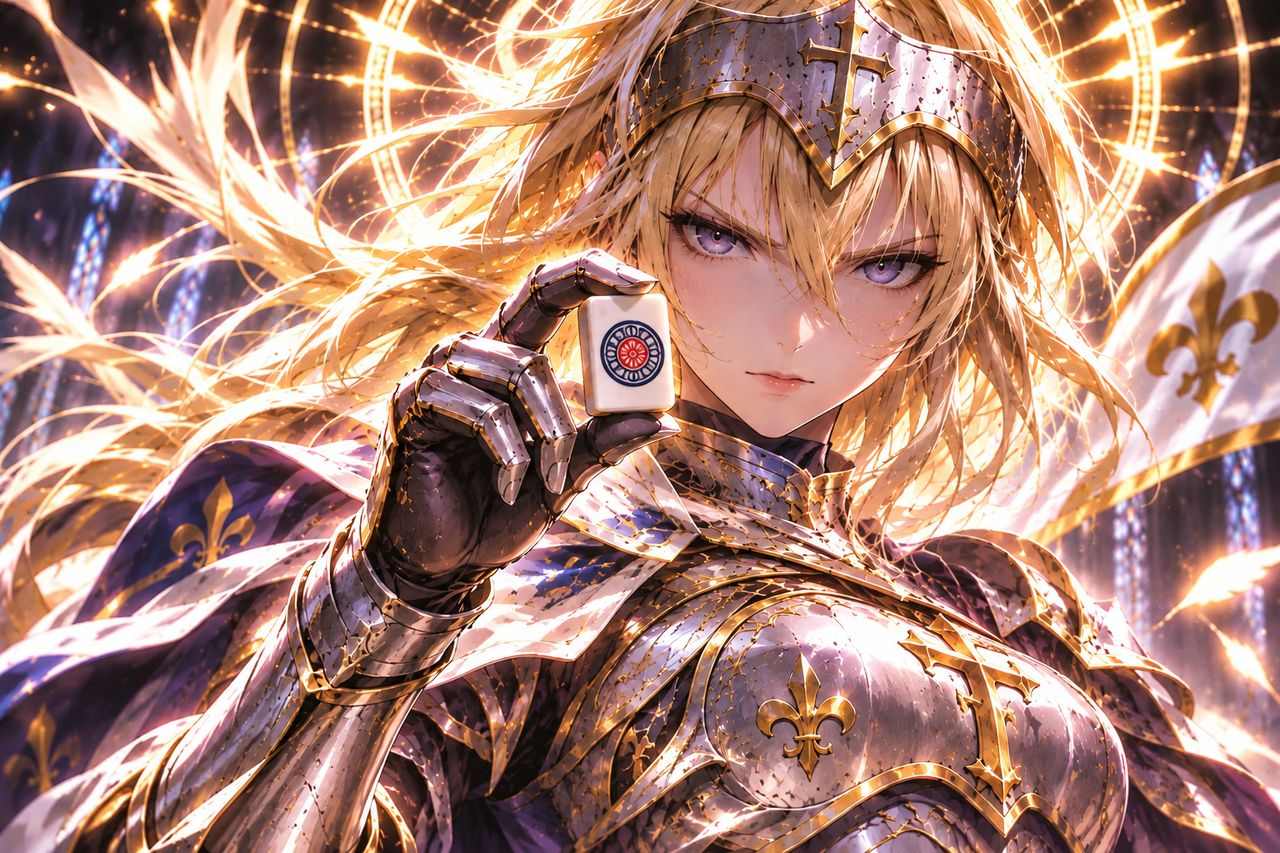
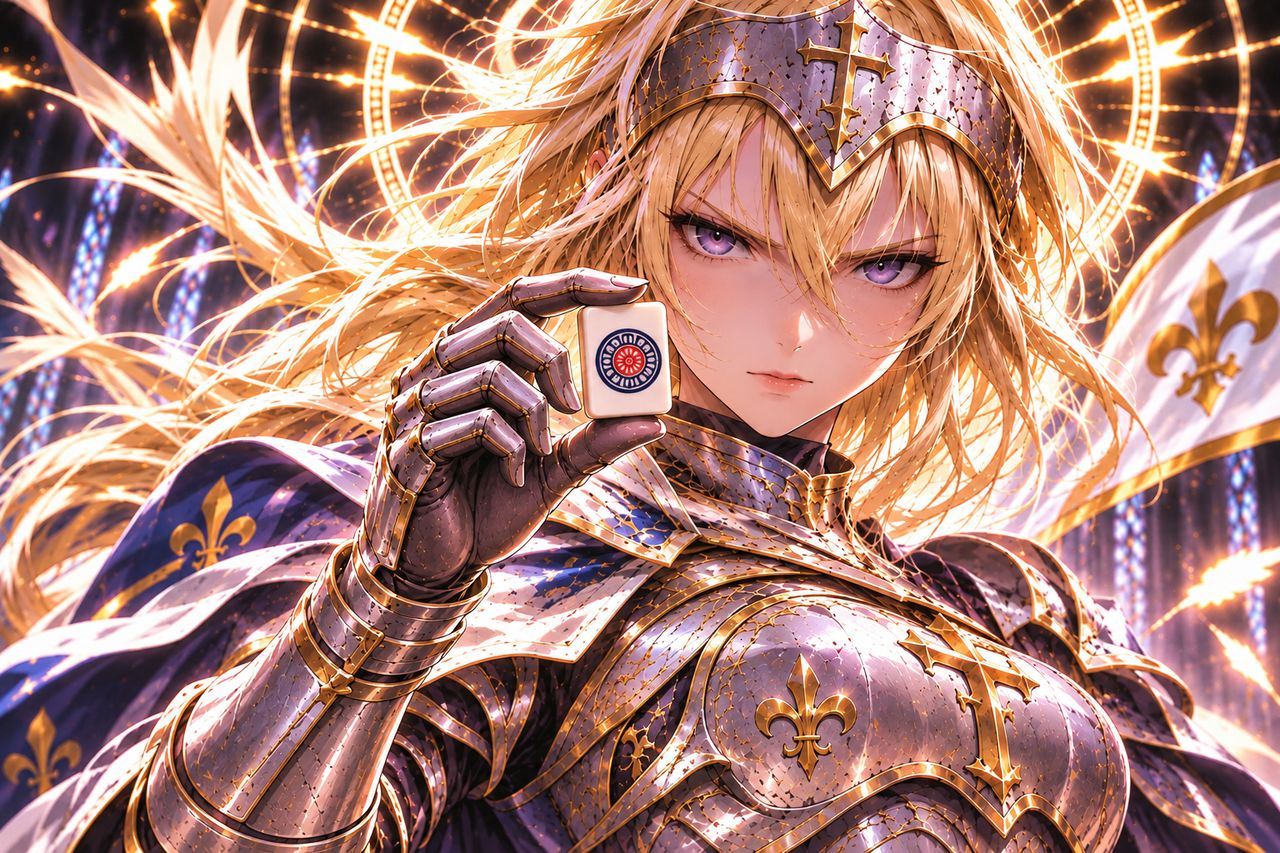
裏ジャンヌと李白（勝ち）の画像を差し替え
Claude-Session: https://claude.ai/code/session_01Kv2HaPgx4L1UeWFjPxrdCA

diff --git a/index.html b/index.html
@@ -1787,7 +1787,7 @@ const OPPONENTS = [
   { id: 'saigo', short: '西郷', fx: 0.61, fy: 0.3, name: '西郷隆盛', abil: '西がドラになる（お互い）' },
   { id: 'libai', short: '李白', fx: 0.68, fy: 0.24, name: '李白', abil: '白がドラになる。リーチ後に白をツモると和了れる（お互い）' },
   { id: 'rasputin', short: 'ラスプーチン', fx: 0.49, fy: 0.35, name: 'ラスプーチン', abil: 'あなたの手牌が見えている。リーチ中以外は振り込まない。ツモも強い', boss: 'ラスボス' },
-  { id: 'jeanne_ura', short: '裏ジャンヌ', fx: 0.69, fy: 0.33, name: 'ジャンヌ・ダルク（裏）', abil: 'あなたの手牌が見えている＋配牌が常にイーシャンテン。ツモも強い', boss: '裏ボス' },
+  { id: 'jeanne_ura', short: '裏ジャンヌ', fx: 0.62, fy: 0.33, name: 'ジャンヌ・ダルク（裏）', abil: 'あなたの手牌が見えている＋配牌が常にイーシャンテン。ツモも強い', boss: '裏ボス' },
 ];
 const opp = () => OPPONENTS.find(o => o.id === S.settings.opp) || OPPONENTS[0];
 const oppIs = id => S.settings.opp === id;

diff --git a/sw.js b/sw.js
@@ -1,5 +1,5 @@
 // 韓麻 HEADS-UP service worker: オフラインでも遊べるようにゲーム本体をキャッシュする
-const CACHE = 'hanma-v51';
+const CACHE = 'hanma-v52';
 const ASSETS = ["./", "index.html", "manifest.webmanifest", "icons/icon-192.png", "icons/icon-512.png", "icons/apple-touch-icon.png", "tiles/chun.png", "tiles/east.png", "tiles/haku.png", "tiles/hatsu.png", "tiles/m1.png", "tiles/m2.png", "tiles/m3.png", "tiles/m4.png", "tiles/m5.png", "tiles/m5r.png", "tiles/m6.png", "tiles/m7.png", "tiles/m8.png", "tiles/m9.png", "tiles/north.png", "tiles/p1.png", "tiles/p2.png", "tiles/p3.png", "tiles/p4.png", "tiles/p5r.png", "tiles/p6.png", "tiles/p7.png", "tiles/p8.png", "tiles/p9.png", "tiles/s1.png", "tiles/s2.png", "tiles/s3.png", "tiles/s4.png", "tiles/s5r.png", "tiles/s6.png", "tiles/s7.png", "tiles/s8.png", "tiles/s9.png", "tiles/south.png", "tiles/west.png"];
 self.addEventListener('install', e => {
   e.waitUntil(caches.open(CACHE).then(c => c.addAll(ASSETS)).then(() => self.skipWaiting()));
